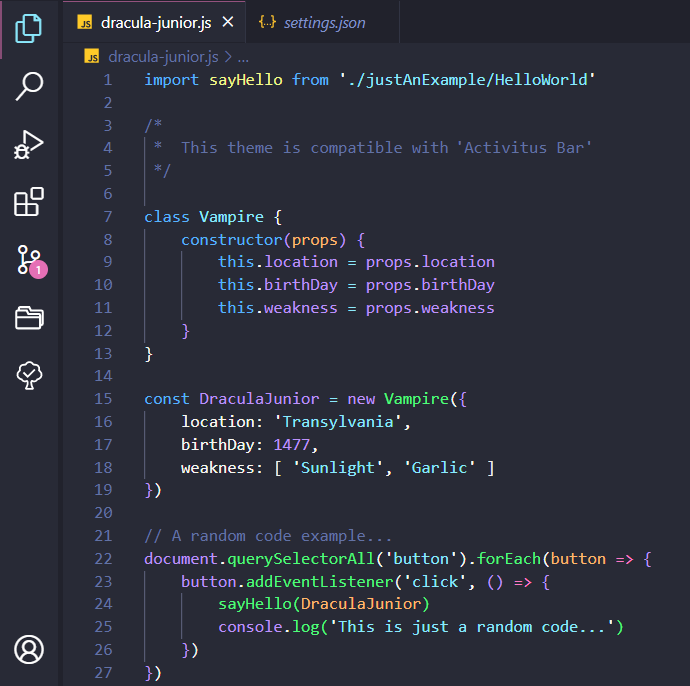
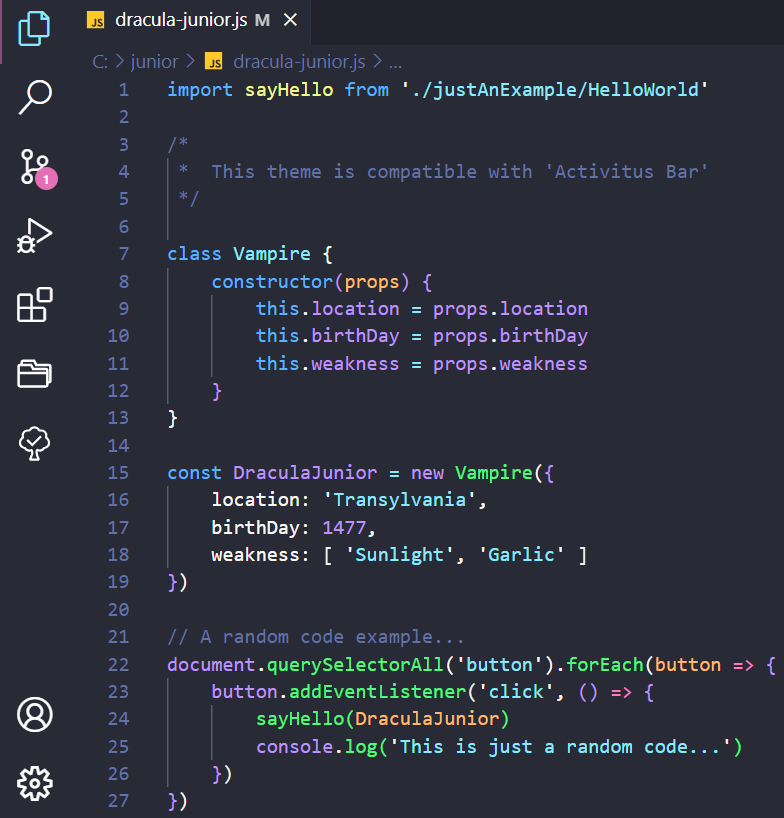
Version v1.26.2

diff --git a/CHANGELOG.md b/CHANGELOG.md
@@ -1,3 +1,6 @@
+#### 1.26.2 (patch)
+- Screnshot updated.
+
 #### 1.26.1 (patch)
 - Small Screnshot improvement.
 
